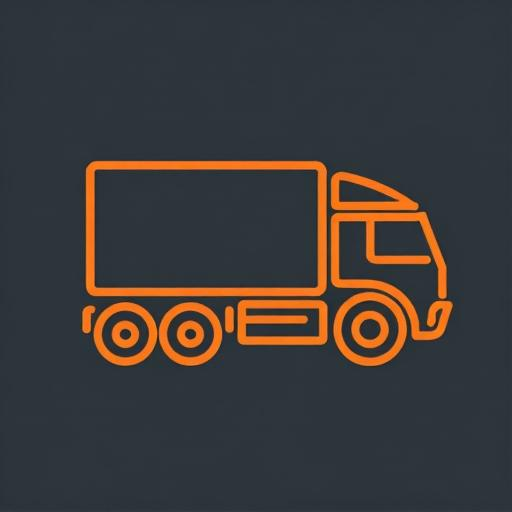
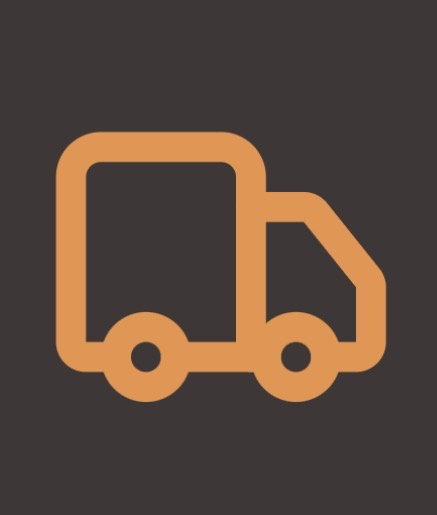
Use uploaded image

Changed region(s): [[0.119, 0.25, 0.8924, 0.7812]]

diff --git a/index.html b/index.html
@@ -8,10 +8,10 @@
     <meta name="author" content="Waypoint Labs LLC" />
 
     <!-- Favicon -->
-    <link rel="icon" href="/lucide-truck.svg" type="image/svg+xml" />
+    <link rel="icon" href="/app-icon.png" type="image/png" />
     
     <!-- iOS Home Screen -->
-    <link rel="apple-touch-icon" href="/lucide-truck.svg" />
+    <link rel="apple-touch-icon" href="/apple-touch-icon.png" />
     <meta name="apple-mobile-web-app-capable" content="yes" />
     <meta name="apple-mobile-web-app-status-bar-style" content="default" />
     <meta name="apple-mobile-web-app-title" content="LoadMaster" />
